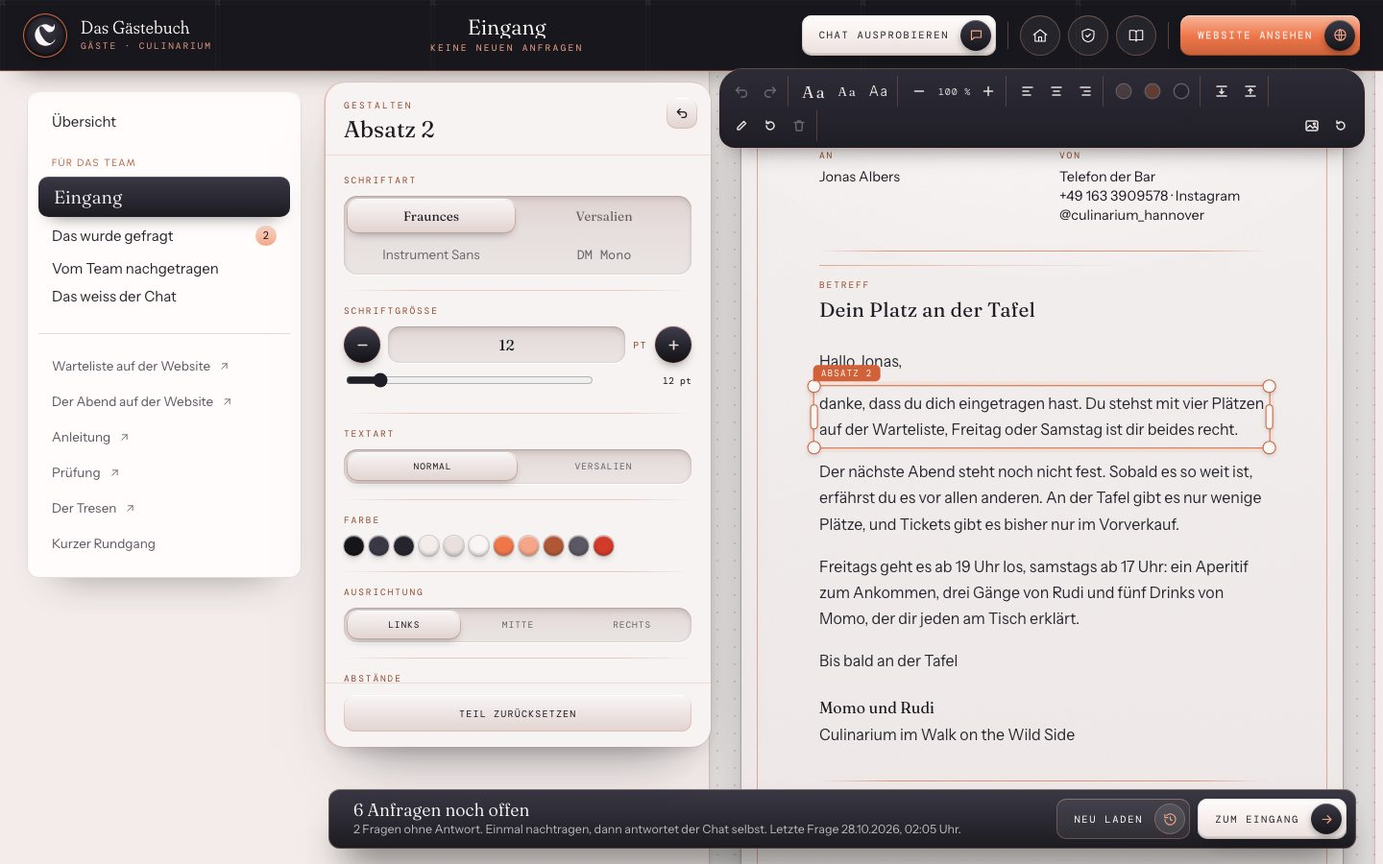
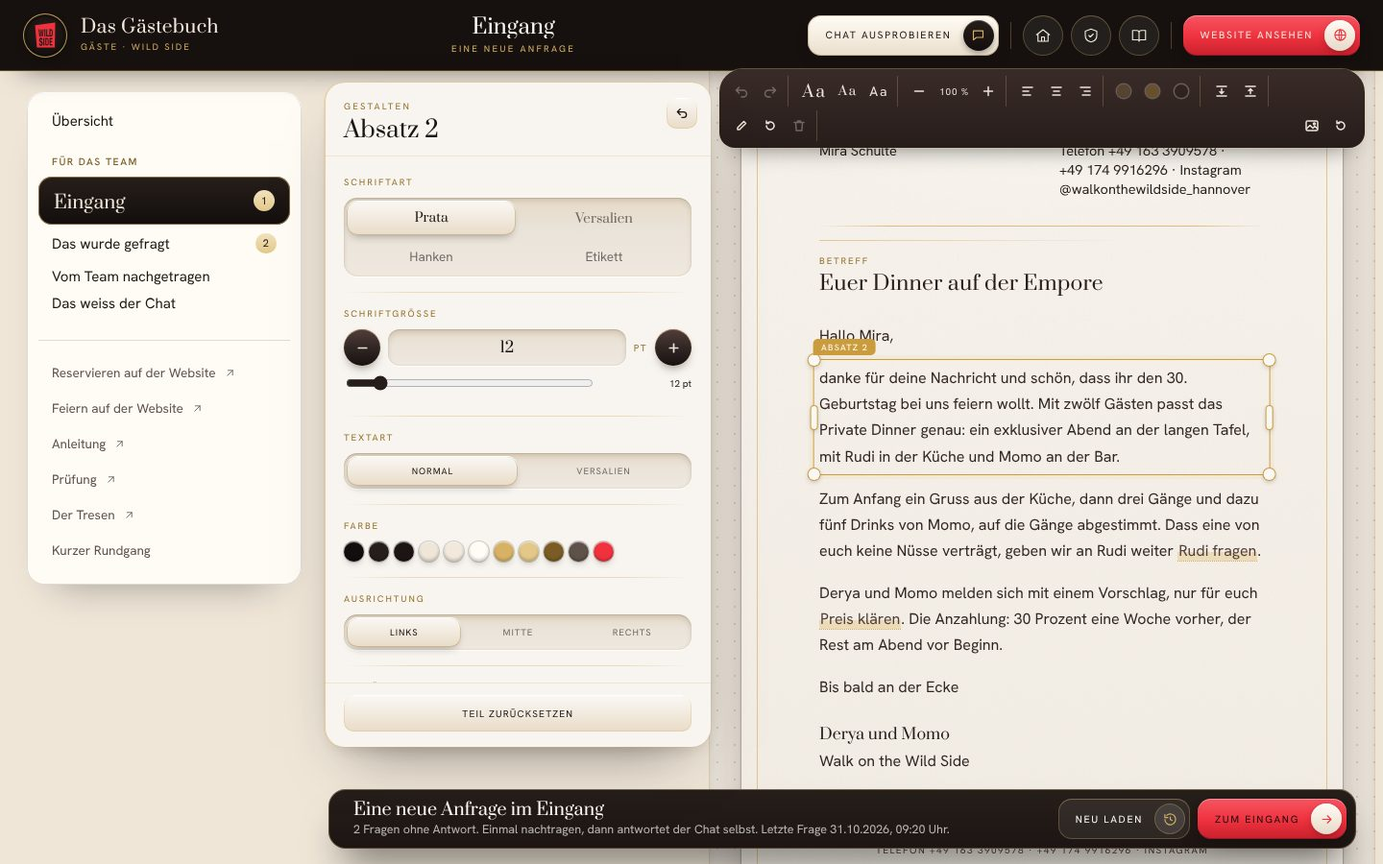
Gästebuch: Anleitung, Baustein für Reservieren und Feiern, Bilder der Anleitung neu, Prüfseite

diff --git a/Walk on the Wild Side Hannover/_werkzeuge/reception/anleitung.html b/Walk on the Wild Side Hannover/_werkzeuge/reception/anleitung.html
@@ -1,12 +1,12 @@
 <!doctype html>
-<html lang="de" data-wo-titel="Anleitung · {name} · Culinarium Hannover">
+<html lang="de" data-wo-titel="Anleitung · {name} · Walk on the Wild Side">
 <head>
 <meta charset="utf-8">
 <meta name="viewport" content="width=device-width, initial-scale=1">
-<title>Anleitung · Culinarium Hannover</title>
-<meta name="description" content="Schritt für Schritt durch das Werkzeug des Teams von Culinarium für die Warteliste, Anfragen und Fragen der Gäste.">
+<title>Anleitung · Walk on the Wild Side</title>
+<meta name="description" content="Schritt für Schritt durch das Werkzeug des Teams von Walk on the Wild Side für Reservierungen, Feiern und Fragen der Gäste.">
 <meta name="robots" content="noindex, nofollow">
-<meta name="theme-color" content="#271d1b">
+<meta name="theme-color" content="#130E0D">
 <link rel="icon" href="/assets/oberflaeche/kleid/wildside-zeichen.svg?v=ca963e407d">
 <link rel="preload" href="../../assets/schrift/prata-latin.woff2" as="font" type="font/woff2" crossorigin>
 <style>
@@ -22,7 +22,7 @@ a{color:inherit}
 .kopf nav{margin-left:auto;display:flex;gap:10px;flex-wrap:wrap}
 .kopf a.kn{display:inline-flex;align-items:center;padding:9px 18px;border-radius:999px;font:500 11px var(--mono);letter-spacing:.16em;text-transform:uppercase;text-decoration:none;color:var(--weiss);box-shadow:inset 0 0 0 1px rgba(232,208,157,.4)}
 .kopf a.gold{background:linear-gradient(180deg,#ead5a8,#cb9c3d);color:var(--nacht);box-shadow:none}
-.hero{position:relative;overflow:hidden;color:var(--weiss);padding:clamp(48px,7vw,96px) clamp(22px,6vw,90px);background:linear-gradient(90deg,rgba(23,18,17,.96),rgba(23,18,17,.7)),url('/assets/bild/tafelleer-1000.webp') center/cover,var(--navy)}
+.hero{position:relative;overflow:hidden;color:var(--weiss);padding:clamp(48px,7vw,96px) clamp(22px,6vw,90px);background:linear-gradient(90deg,rgba(23,18,17,.96),rgba(23,18,17,.7)),url('/assets/bild/theke-960.webp') center/cover,var(--navy)}
 .hero span.m{font:11px var(--mono);letter-spacing:.2em;text-transform:uppercase;color:var(--gold)}
 .hero h1{font:400 clamp(36px,5.6vw,68px)/1.06 var(--serif);margin:14px 0 16px;max-width:15em}
 .hero h1 em{color:var(--gold)}
@@ -61,7 +61,7 @@ h1,h2,h3,h4,figcaption{text-wrap:balance}
 <header class="kopf"><b>Anleitung · <span data-wo-name="gaeste">Werkzeug</span></b><nav><a class="kn" href="#kapitel">Kapitel</a><a class="kn gold" href="./">Werkzeug öffnen</a></nav></header>
 <section class="hero"><span class="m">Anfragen der Gäste, Schritt für Schritt</span>
 <h1>Was Gäste fragen, <em>und deine Antwort.</em></h1>
-<p>Wie ein Platz auf der Warteliste oder die Frage nach einem Abend von der Website in den Eingang kommt, wie du den Brief gestaltest und sendest, was Gäste fragen und wie der Chat lernt, was er bisher nicht wusste. Zwölf kurze Kapitel. Jedes Bild lässt sich mit einem Klick gross ansehen.</p></section>
+<p>Wie eine Reservierung oder die Anfrage für eine Feier von der Website in den Eingang kommt, wie du den Brief gestaltest und sendest, was Gäste fragen und wie der Chat lernt, was er bisher nicht wusste. Zwölf kurze Kapitel. Jedes Bild lässt sich mit einem Klick gross ansehen.</p></section>
 <main id="kapitel">
 <div class="inhalt">
 <a href="#k1"><b>01</b>Übersicht</a><a href="#k2"><b>02</b>Eine Anfrage beantworten</a><a href="#k3"><b>03</b>Den Brief gestalten</a><a href="#k4"><b>04</b>Brief senden und sichern</a>
@@ -70,17 +70,17 @@ h1,h2,h3,h4,figcaption{text-wrap:balance}
 </div>
 
 <section class="k" id="k1"><span class="m">01 · Übersicht</span><h2>So ist <span class="zs"><em>das Gästebuch</em> aufgebaut.</span></h2>
-<p class="s"><span data-wo-name="gaeste">Dieses Werkzeug</span> ist das Werkzeug deines Teams für alles, was Gäste über die Website schreiben: jeder Eintrag auf der Warteliste («Dein Platz an der Tafel.» auf der Seite «Der Abend»: Tag, Plätze, Name, E-Mail), jede Anfrage aus dem Chat (Platz an einem Abend, eigene Feier an der langen Tafel, Nachricht) und jede Frage an den Chat der Website.</p>
-<ol><li>Oben in der Übersicht drei Felder: neue Anfragen im Eingang, Fragen ohne Antwort, alle Fragen bisher. Darunter die Arten (Warteliste, Platz am Abend, Eigene Feier, Nachricht) mit der Zahl der Anfragen, links «Zuletzt angefragt», rechts «Zuletzt gefragt».</li>
+<p class="s"><span data-wo-name="gaeste">Dieses Werkzeug</span> ist das Werkzeug deines Teams für alles, was Gäste über die Website schreiben: jede Reservierung («Ein Platz für euch.» auf der Seite Besuch: Abend, Uhrzeit, Plätze, Name, Telefon oder E-Mail), jede Anfrage für eine Feier («Euer Abend» auf der Seite Feiern: Format, Datum, wie viele, Anlass, Musik), jede Anfrage aus dem Chat (Reservieren, Privates Dinner, Feier, Nachricht) und jede Frage an den Chat der Website.</p>
+<ol><li>Oben in der Übersicht drei Felder: neue Anfragen im Eingang, Fragen ohne Antwort, alle Fragen bisher. Darunter die Arten (Reservieren, Privates Dinner, Feiern, Nachrichten) mit der Zahl der Anfragen, links «Zuletzt angefragt», rechts «Zuletzt gefragt».</li>
 <li>Links die Bereiche: «Eingang», «Das wurde gefragt», «Vom Team nachgetragen» und «Das weiss der Chat». Die Zahl daneben zeigt, was auf dich wartet. Auf dem Handy öffnet «Bereiche» die Liste.</li>
 <li>Die Leiste unten sagt in einem Satz, was offen ist. «Neu laden» holt den Stand, «Zum Eingang» führt zu den Anfragen. Es sieht auch von selbst nach, ob etwas Neues da ist.</li></ol>
 <figure><img src="bilder/rez-uebersicht.jpg?v=c9c5b6e98d" alt="Übersicht" loading="lazy"><figcaption><span data-wo-name="gaeste">Werkzeug</span> · Übersicht</figcaption></figure></section>
 
 <section class="k" id="k2"><span class="m">02 · Eingang</span><h2>Eine Anfrage <em>beantworten.</em></h2>
 <p class="s">Jede Anfrage aus einem Formular der Website landet hier, mit allen Angaben, den Allergien als Klartext und der Seite, von der sie kam. Ebenso eine Anfrage aus dem Chat, sobald der Gast Name und Kontakt nennt. Niemand sagt dem Gast, dass etwas reserviert oder bestätigt ist; das tut dein Team.</p>
-<ol><li>«Eingang» öffnen. Oben Warteliste, Abende, Feiern und Nachrichten mit der Zahl offener Anfragen, darunter die Auswahl «Alle», «Neu», «Offen», «Erledigt». Die Anfragen stehen nach Tagen geordnet (Heute, Gestern, Wochentag, Früher). Neue tragen ein goldenes Feld «Neu».</li>
-<li>Eine Anfrage anklicken. Rechts stehen Name, Tag, Uhrzeit, Plätze, Wünsche für die Küche, Sprache und Kontakt, darunter die Hinweise: der nächste Termin steht noch nicht fest, ein Tag ausser Freitag oder Samstag, mehr Plätze, als die Warteliste nimmt oder die Tafel hat (vierzehn), Allergien (die Website sagt dazu nichts: Rudi fragen), Bar geschlossen (Sonntag bis Mittwoch), Ticket zurückgeben. Unter «Die Nachricht über die Website» liest du nach, was der Gast ausgefüllt hat. Öffnen macht eine neue Anfrage zur gelesenen.</li>
-<li>«Brief schreiben» lässt den Assistenten einen Entwurf schreiben. Er hält sich an das, was Culinarium selbst schreibt (Warteliste: die Sätze auf «Der Abend»; Platz an einem Abend: «Gut zu wissen» und der Vorverkauf; eigene Feier: die Sätze der Bar-Seite), schreibt im Du wie die Website, fragt nach, was fehlt, nennt jede Allergie, setzt für Termin und Preis offene Felder und schreibt in der Sprache des Gastes.</li>
+<ol><li>«Eingang» öffnen. Oben Reservieren, Dinner, Feiern und Nachrichten mit der Zahl offener Anfragen, darunter die Auswahl «Alle», «Neu», «Offen», «Erledigt». Die Anfragen stehen nach Tagen geordnet (Heute, Gestern, Wochentag, Früher). Neue tragen ein goldenes Feld «Neu».</li>
+<li>Eine Anfrage anklicken. Rechts stehen Name, Tag, Uhrzeit, Plätze, Platz, Allergien, Sprache und Kontakt, darunter die Hinweise: Bar geschlossen (Sonntag bis Mittwoch), ab zehn Gästen die lange Tafel statt der Theke, ein Format, das nicht zur Zahl der Gäste passt (Privates Dinner 10 bis 14, lange Tafel 10 bis 20, ganze Bar ab 30), Allergien beim Dinner (die Website sagt dazu nichts: Rudi fragen), die Anzahlung bei Feiern (30 Prozent eine Woche vorher). Unter «Die Nachricht über die Website» liest du nach, was der Gast ausgefüllt hat. Öffnen macht eine neue Anfrage zur gelesenen.</li>
+<li>«Brief schreiben» lässt den Assistenten einen Entwurf schreiben. Er hält sich an das, was die Bar selbst schreibt (Reservieren: «Ein Platz für euch.» und «Gut zu wissen» auf Besuch; Privates Dinner und Feier: die Seite Feiern mit Formaten, Preisen und Ablauf), schreibt im Du wie die Website, fragt nach, was fehlt, nennt jede Allergie, setzt für freie Plätze und das Angebot offene Felder und schreibt in der Sprache des Gastes.</li>
 <li>Ist alles beantwortet, «Erledigt» drücken. Die Anfrage bleibt in der Liste, blasser, und lässt sich mit «Wieder offen» zurückholen.</li></ol>
 <figure><img src="bilder/rez-eingang.jpg?v=0b124ea4e2" alt="Eingang mit Anfrage und Brief" loading="lazy"><figcaption><span data-wo-name="gaeste">Werkzeug</span> · Eingang</figcaption></figure></section>
 
@@ -90,8 +90,8 @@ h1,h2,h3,h4,figcaption{text-wrap:balance}
 <li><b>Schreiben:</b> Doppelklick oder Enter schreibt in den Teil. Klick ausserhalb oder Esc beendet das Schreiben. Stellen in [Klammern] sind offene Felder, die dein Team ausfüllt (Preis, Verfügbarkeit); sie sind gold markiert.</li>
 <li><b>Verschieben:</b> ziehen. Der Teil rastet an Papierkanten, Mitte und anderen Teilen ein (rote Hilfslinien); Alt hält das Einrasten aus. Pfeiltasten verschieben um 1 Pixel, mit Umschalt um 10.</li>
 <li><b>Grösse:</b> die Ecken ziehen (Schrift) oder die Seiten (Breite); oder in der Leiste «+» und «−».</li>
-<li><b>Schrift und Ausrichtung</b> in der Leiste oben: Titelschrift (Fraunces), Versalien, Instrument Sans, links, Mitte, rechts, Linienfarbe. Die Seitenleiste bietet mehr: Schriftart, Schriftgrösse in Punkt, Textart, Hausfarben, Abstände davor und danach, Sperrung, Zeilenabstand, Deckkraft, Lage und «Teil zurücksetzen».</li>
-<li><b>Foto einfügen:</b> in der Leiste das Bild-Symbol. Vierzehn Fotos des Hauses stehen zur Wahl (die lange Tafel, Anstossen bei Kerzen, ein Drink von Momo, am Pass, Lauch / Blumenkohl / Chipotle, das Schild bei Nacht …). Das Foto kommt unter den gewählten Absatz; verschieben, Grösse ziehen, Ausschnitt in der Seitenleiste, mit Entfernen oder Löschen-Taste weg.</li>
+<li><b>Schrift und Ausrichtung</b> in der Leiste oben: Titelschrift (Prata), Versalien, Hanken, links, Mitte, rechts, Linienfarbe. Die Seitenleiste bietet mehr: Schriftart, Schriftgrösse in Punkt, Textart, Hausfarben, Abstände davor und danach, Sperrung, Zeilenabstand, Deckkraft, Lage und «Teil zurücksetzen».</li>
+<li><b>Foto einfügen:</b> in der Leiste das Bild-Symbol. Vierzehn Fotos des Hauses stehen zur Wahl (die lange Tafel, Anstossen, ein Negroni, Momo mixt, das Gewölbe, das Schild an der Ecke …). Das Foto kommt unter den gewählten Absatz; verschieben, Grösse ziehen, Ausschnitt in der Seitenleiste, mit Entfernen oder Löschen-Taste weg.</li>
 <li><b>Linien</b> sind eigene Teile: Stärke, Farbe und Länge ändern, oder entfernen.</li>
 <li><b>Rückgängig:</b> die Pfeile in der Leiste oder ⌘Z, wiederholen mit Umschalt ⌘Z. «Zurück auf die Vorlage» (Symbol rechts in der Leiste) stellt Text, Anordnung und Fotos her, wie der Assistent sie geschrieben hat.</li></ol>
 <figure><img src="bilder/rez-gestalten.jpg?v=67ac4e34af" alt="Brief gestalten mit Seitenleiste" loading="lazy"><figcaption><span data-wo-name="gaeste">Werkzeug</span> · Brief gestalten</figcaption></figure>
@@ -101,7 +101,7 @@ h1,h2,h3,h4,figcaption{text-wrap:balance}
 <section class="k" id="k4"><span class="m">04 · Senden</span><h2>Brief <em>senden und sichern.</em></h2>
 <p class="s">Hier wird nichts verschickt, und es öffnet sich kein Mailprogramm. Der Brief bleibt bei der Anfrage.</p>
 <ol><li><b>Text kopieren</b> legt Betreff und Brief als reinen Text in die Zwischenablage.</li>
-<li><b>Als PDF speichern</b> setzt den Brief als fertige A4-Seite auf Briefpapier und lädt die Datei direkt («Culinarium – Name – Datum.pdf»). Passt der Text, ist es eine Seite; sonst bricht er sauber um, mit kleinem Briefkopf auf der Folgeseite, Fusszeile und Rahmen auf jeder Seite. Geht auch aus «Nur Text».</li>
+<li><b>Als PDF speichern</b> setzt den Brief als fertige A4-Seite auf Briefpapier und lädt die Datei direkt («Walk on the Wild Side – Name – Datum.pdf»). Passt der Text, ist es eine Seite; sonst bricht er sauber um, mit kleinem Briefkopf auf der Folgeseite, Fusszeile und Rahmen auf jeder Seite. Geht auch aus «Nur Text».</li>
 <li>Rechts neben dem Brief steht die Notiz «Vor dem Senden»: wie viele Stellen offen sind, woher die Angaben stammen und was das Team vorher klären muss.</li></ol></section>
 
 <section class="k" id="k5"><span class="m">05 · Sprache</span><h2>Auf Deutsch <em>lesen.</em></h2>
@@ -112,13 +112,13 @@ h1,h2,h3,h4,figcaption{text-wrap:balance}
 <figure><img src="bilder/rez-deutsch.jpg?v=19d6599e16" alt="Deutsche Lesefassung eines französischen Briefs" loading="lazy"><figcaption><span data-wo-name="gaeste">Werkzeug</span> · Auf Deutsch lesen</figcaption></figure></section>
 
 <section class="k" id="k6"><span class="m">06 · Brief lenken, Anfragen löschen</span><h2>Den Brief <em>lenken und löschen.</em></h2>
-<p class="s">Weisst du mehr als die Website, zum Beispiel den Termin des nächsten Abends, gib es dem Assistenten mit.</p>
+<p class="s">Weisst du mehr als die Website, zum Beispiel, ob an einem Abend noch Plätze frei sind, gib es dem Assistenten mit.</p>
 <ol><li>Unter dem Brief «Neu schreiben lassen» drücken, im Fenster den Hinweis in einem Satz eintragen und «Neu schreiben» drücken. Der neue Brief ersetzt den alten; willst du deine Fassung behalten, kopier sie vorher mit «Brief kopieren».</li>
 <li>Preise und Leistungen nennt der Assistent nur, wenn sie auf der Website stehen.</li>
 <li><b>Löschen:</b> Anfragen enthalten Namen und Kontakte und bleiben zwölf Monate gespeichert. Möchte ein Gast, dass seine Angaben gelöscht werden, die Anfrage öffnen, oben rechts das runde Zeichen mit dem Papierkorb drücken und «Endgültig löschen» bestätigen.</li></ol></section>
 
 <section class="k" id="k7"><span class="m">07 · Das wurde gefragt</span><h2>Was Gäste <em>wissen wollen.</em></h2>
-<p class="s">Jede Frage an den Chat steht hier, nach Themen: Allergien &amp; Unverträglichkeiten, Termine &amp; Warteliste, Tickets &amp; Preise, Eigene Feier &amp; Gruppen, Drinks &amp; Menü, Dirty Chicken, Die Bar, Anfahrt, Team.</p>
+<p class="s">Jede Frage an den Chat steht hier, nach Themen: Feiern &amp; Dinner, Essen &amp; Allergien, DJ-Abende &amp; Konzerte, Drinks &amp; Preise, Zeiten &amp; Reservieren, Anfahrt, Das Haus &amp; Team.</p>
 <ol><li>«Das wurde gefragt» öffnen. Oben die Zahlen: alle Fragen, ohne Antwort, vom Team nachgetragen, zur Anfrage geworden.</li>
 <li>Eine Frage aufklappen: «Antwort des Chats» zeigt, was der Chat geantwortet hat.</li>
 <li>Fragen ohne Antwort sind golden hinterlegt; «Ohne Antwort» oben zeigt nur diese. Ohne Antwort heisst: dazu steht nichts auf der Website. Der Chat hat den Gast an das Team verwiesen, statt zu raten.</li></ol>
@@ -137,8 +137,8 @@ h1,h2,h3,h4,figcaption{text-wrap:balance}
 <figure><img src="bilder/rez-nachgetragen.jpg?v=79eb6dafb2" alt="Vom Team nachgetragen" loading="lazy"><figcaption><span data-wo-name="gaeste">Werkzeug</span> · Vom Team nachgetragen</figcaption></figure></section>
 
 <section class="k" id="k10"><span class="m">10 · Das weiss der Chat</span><h2>Alles, was der Chat <em>über dein Haus weiss.</em></h2>
-<p class="s">Der Chat antwortet nur mit dem, was auf der Website, in den Wegen zum Ticket (Vorverkauf laut Instagram) und hier steht. Dieser Bereich zeigt es in Bereichen geordnet, so dass du auf einen Blick siehst, was Sache ist.</p>
-<ol><li>Links die Bereiche (Culinarium, Der Abend &amp; Warteliste, Tickets &amp; Preise, Drinks &amp; Küche, Kontakt, Das Haus (Bar), Team, Der Weg, Dirty Chicken …), rechts die Angaben als Zeilen mit «So steht es auf der Website» als Beleg.</li>
+<p class="s">Der Chat antwortet nur mit dem, was auf der Website, in den Wegen zum Team (Telefon, Instagram) und hier steht. Dieser Bereich zeigt es in Bereichen geordnet, so dass du auf einen Blick siehst, was Sache ist.</p>
+<ol><li>Links die Bereiche (Die Bar, Zeiten &amp; Reservieren, Drinks &amp; Preise, Programm, Feiern, Das Haus &amp; Team, Der Weg, Kontakt, Im selben Haus …), rechts die Angaben als Zeilen mit «So steht es auf der Website» als Beleg.</li>
 <li><b>Suchen:</b> das Feld oben sucht in allen Bereichen. Steht zu einem Stichwort noch nichts im Wissen, bietet das Werkzeug zwei Wege an: selbst eintragen, oder bei der zuständigen Abteilung als offen vermerken. Das Thema steht dann oben unter «Offen bei deinem Team» mit Abteilung und Namen; wer die Antwort weiss, trägt sie dort mit «Antwort eintragen» ein. Es öffnet sich kein Mailprogramm.</li>
 <li><b>Eine Angabe ändern:</b> die Zeile antippen, Text ändern, «Übernehmen». Der Chat antwortet ab der nächsten Frage damit; die Website bleibt, wie sie ist. «Nicht mehr nennen» schaltet eine Angabe ab, «Wie auf der Website» stellt sie zurück.</li>
 <li><b>Chat prüfen:</b> rechts oben «Frag, wie ein Gast». Die Antwort kommt aus dem Wissen, so wie es jetzt steht. Diese Frage landet nicht im Protokoll.</li>
@@ -149,9 +149,9 @@ h1,h2,h3,h4,figcaption{text-wrap:balance}
 <p class="s">Ein Feld für alles, was der Chat bisher nicht wusste: eigener Text, ein Link, ein Dokument, ein Foto.</p>
 <ol><li><b>Text:</b> schreiben, einen Bereich wählen oder «automatisch» lassen, «Übernehmen». Ein Text mit gewähltem Bereich steht sofort im Wissen.</li>
 <li><b>Link:</b> die Adresse einer Veranstaltung oder eines Anbieters einfügen. Die Seite wird im Hintergrund gelesen (meist eine halbe Minute), der Chat übernimmt nur, was dort steht, mit Datum und Quelle. «Neu einlesen» holt den neuen Stand, «Entfernen» nimmt die Angaben wieder weg.</li>
-<li><b>Dokument oder Foto:</b> PDF, Word, Text und Fotos bis 20 MB, per Knopf oder hineinziehen. Etwa das Plakat des nächsten Abends oder die Karte am Platz als Foto.</li>
+<li><b>Dokument oder Foto:</b> PDF, Word, Text und Fotos bis 20 MB, per Knopf oder hineinziehen. Etwa das Plakat des nächsten DJ-Abends oder die neue Karte als Foto.</li>
 <li><b>Angabe hinzufügen:</b> Bereich, Titel, Text und «Gilt bis», etwa für eine Veranstaltung. Abgelaufene Angaben nennt der Chat nicht mehr, sie bleiben sichtbar.</li>
-<li>Eine eigene Anmeldung brauchst du nicht: Jede Änderung steht mit Datum im Verlauf, eingetragen als «Team Culinarium».</li></ol></section>
+<li>Eine eigene Anmeldung brauchst du nicht: Jede Änderung steht mit Datum im Verlauf, eingetragen als «Team Wild Side».</li></ol></section>
 
 <section class="k" id="k12"><span class="m">12 · Chat ausprobieren</span><h2>So fragt <em>ein Gast.</em></h2>
 <p class="s">Hier siehst du, wie der Chat einem Gast antwortet.</p>

diff --git a/Walk on the Wild Side Hannover/_werkzeuge/reception/baustein/anfrage.js b/Walk on the Wild Side Hannover/_werkzeuge/reception/baustein/anfrage.js
@@ -1,34 +1,41 @@
-/* Anschluss der Warteliste der Website an La Réception · Culinarium Hannover (28.10.2026, Master Werkzeug-Bau E12/E24/E33, Muster: Gastgeber der Taverne zum Schäfli).
-   Die Website hat ein Formular, das etwas an das Team geben soll: die Warteliste «Dein Platz an der Tafel.» auf Der Abend (form.wt-form in abend.html: Tag Freitag,
-   Samstag oder egal, Plätze 1 bis 6, Name, E-Mail). Bisher zeigte sie nur den Abriss «Vorgemerkt» (Vorschau, nichts ging weg). Das Feld «Vormerken» im Fuss
-   jeder Seite schickt nichts ab, es trägt nur die E-Mail in die Warteliste auf Der Abend ein (culinarium.js); hier bleibt es unberührt.
-   Mit diesem Baustein geht jeder Eintrag in den Eingang von La Réception, mit Tag und Plätzen; erst wenn La Réception ihn angenommen hat, löst sich der Abriss
-   wie bisher (das Skript der Website setzt «Danke, … Du stehst auf der Liste»). Geht etwas schief, steht unter dem Ticket eine Meldung mit der Telefonnummer
-   der Bar und Instagram, die Eingaben bleiben. Nie mailto, nie ein Mailprogramm.
-   Die Skripte der Website (culinarium.js) bleiben unverändert. Der Baustein fängt das Abschicken im Fang-Durchlauf am Dokument ab, bevor die Website den Abriss
-   löst, schickt an La Réception und gibt das Abschicken danach an die Website weiter.
-   Die gespielte Buchung «Platz buchen» (buchen.js, Zahlung nur simuliert) ist kein Formular des Hauses und bleibt hier draussen.
-   Einbinden (Website-Chat über bau.py, nicht von Hand): <script src="assets/anfrage.js?v={V}" defer></script> nach culinarium.js.
+/* Anschluss der Formulare der Website an das Gästebuch · Walk on the Wild Side Hannover (31.10.2026, Master Werkzeug-Bau E12/E24/E33, Muster: Culinarium Hannover).
+   Die Website hat zwei Formulare, die etwas an das Team geben sollen, beide bisher nur als Vorführung (form[data-vorfuehrung], wild.js zeigt den Dank, nichts geht weg):
+     besuch.html  «Ein Platz für euch.» (form.rh-form: Abend, Uhrzeit, Plätze, Name, Telefon oder E-Mail, Platz an der Theke)   → Art «reservieren»
+     tafel.html   «Euer Abend» (Format, Datum, wie viele, Anlass, Musik dazu, Name, E-Mail oder Telefon, Was habt ihr vor?)      → Art «dinner» (Privates Dinner) oder «feier»
+   Mit diesem Baustein geht jede Anfrage in den Eingang des Gästebuchs; erst wenn das Gästebuch sie angenommen hat, zeigt die Website ihren Dank wie bisher
+   («Danke. Die Bar bestätigt dir den Abend.» bzw. «Danke. Derya und Momo melden sich …»). Fehlt Name oder Kontakt oder geht etwas schief, steht unter dem Knopf
+   eine Meldung mit den Telefonnummern der Bar und Instagram, die Eingaben bleiben. Nie mailto, nie ein Mailprogramm (die Bar hat keine belegte Mail-Adresse).
+   Die Skripte der Website (wild.js) bleiben unverändert. Der Baustein fängt das Abschicken im Fang-Durchlauf am Dokument ab, bevor die Website den Dank zeigt,
+   schickt an das Gästebuch und gibt das Abschicken danach an die Website weiter.
+   Einbinden (Website-Chat über bau.py, nicht von Hand): <script src="assets/anfrage.js?v={V}" defer></script> nach wild.js.
    Ziel: /_werkzeuge/reception/api/formular (anders mit <script … data-api="http://127.0.0.1:9084/_werkzeuge/reception/api/formular"> oder window.WS_ANFRAGE_API). */
 (function () {
   'use strict';
   var D = document, skript = D.currentScript;
   var API = window.WS_ANFRAGE_API || (skript && skript.getAttribute('data-api')) || '/_werkzeuge/reception/api/formular';
-  var WEGE = 'Telefon der Bar +49 163 3909578 oder eine Nachricht an @culinarium_hannover auf Instagram';
-  var TAG = { fr: ['Freitag', 'ab 19:00'], sa: ['Samstag', 'ab 17:00'], egal: ['Freitag oder Samstag', 'beides geht'] };
+  var WEGE = 'Telefon +49 163 3909578 oder +49 174 9916296, oder eine Nachricht an @walkonthewildside_hannover auf Instagram';
   var wert = function (f, n) { var e = f.querySelector('[name="' + n + '"]'); return e ? String(e.value || '').trim() : ''; };
-  var seiteName = function () { var t = (D.title || '').split(/ · | \| | — /)[0].trim(); return /^Culinarium/.test(t) ? 'Startseite' : t; };
+  var seiteName = function () { var t = (D.title || '').split(/ · | \| | — /)[0].trim(); return /^Walk on the Wild Side/.test(t) ? 'Startseite' : t; };
+  var datumLang = function (iso) { var m = /^(\d{4})-(\d{2})-(\d{2})$/.exec(iso || ''); if (!m) return iso || ''; var d = new Date(+m[1], +m[2] - 1, +m[3]);
+    return d.toLocaleDateString('de-DE', { weekday: 'long', day: 'numeric', month: 'long', year: 'numeric' }).replace(/^(\w+) /, '$1, '); };
 
-  /* Was die Warteliste mitschickt: dieselben Angaben, die der Gast auf dem Ticket sieht, in Zeilen für das Team */
-  function warteliste(f) {
-    var r = f.querySelector('[name=tag]:checked'), tag = TAG[(r && r.value) || 'fr'] || TAG.fr;
-    var o = f.querySelector('output[data-feld=n]'), n = o ? String(o.value || o.textContent || '').trim() : '';
-    return { art: 'warteliste', formular: 'warteliste', anliegen: 'Warteliste: ' + tag[0] + (n ? ', ' + n + (n === '1' ? ' Platz' : ' Plätze') : ''),
-      datum: tag[0], uhrzeit: tag[1] === 'beides geht' ? '' : tag[1], personen: n, name: wert(f, 'name'), kontakt: wert(f, 'mail'),
-      zeilen: ['Tag: ' + tag[0] + ', ' + tag[1], 'Plätze: ' + (n || '-')] };
+  /* Was jedes Formular mitschickt: dieselben Angaben, die der Gast im Formular sieht, in Zeilen für das Team */
+  function reservieren(f) {
+    var tag = datumLang(wert(f, 'datum')), zeit = wert(f, 'zeit'), n = wert(f, 'gaeste');
+    return { art: 'reservieren', formular: 'reservieren', anker: '#reservieren', platz: wert(f, 'platz') || 'Theke',
+      anliegen: 'Platz reservieren: ' + [tag, zeit, n ? n + (n === '1' ? ' Platz' : ' Plätze') : ''].filter(Boolean).join(', '),
+      datum: tag, uhrzeit: zeit, personen: n, name: wert(f, 'name'), kontakt: wert(f, 'kontakt'),
+      zeilen: ['Abend: ' + (tag || '-'), 'Uhrzeit: ' + (zeit || '-'), 'Plätze: ' + (n || '-')] };
   }
+  function feiern(f) {
+    var format = wert(f, 'format'), tag = datumLang(wert(f, 'datum')), n = wert(f, 'gaeste'), anlass = wert(f, 'anlass'), musik = wert(f, 'musik'), text = wert(f, 'text');
+    return { art: format === 'Privates Dinner' ? 'dinner' : 'feier', formular: 'feiern', anker: '#anfragen',
+      anliegen: [format, anlass, n ? n + ' Gäste' : ''].filter(Boolean).join(', '), datum: tag, uhrzeit: '', personen: n, name: wert(f, 'name'), kontakt: wert(f, 'kontakt'),
+      zeilen: ['Format: ' + (format || '-'), 'Datum: ' + (tag || '-'), 'Wie viele: ' + (n || '-'), 'Anlass: ' + (anlass || '-'), 'Musik dazu: ' + (musik || '-')].concat(text ? ['Was habt ihr vor?: ' + text] : []) };
+  }
+  var welches = function (f) { return f.classList.contains('rh-form') ? reservieren : f.querySelector('[name=format]') ? feiern : null; };
 
-  /* Feld, das Menschen nicht sehen: nur Maschinen füllen es aus (La Réception nimmt solche Anfragen still an und legt nichts ab) */
+  /* Feld, das Menschen nicht sehen: nur Maschinen füllen es aus (das Gästebuch nimmt solche Anfragen still an und legt nichts ab) */
   function falle(f) {
     if (f.querySelector('[name=website]')) return;
     var i = D.createElement('input'); i.type = 'text'; i.name = 'website'; i.tabIndex = -1; i.autocomplete = 'off'; i.setAttribute('aria-hidden', 'true');
@@ -36,40 +43,38 @@
     f.appendChild(i);
   }
   function meldung(f, text) {
-    var p = f.querySelector('.wt-meldung');
-    if (!p) return;
+    var p = f.querySelector('.hinweis');
     f.classList.remove('fertig');
-    p.textContent = text;
+    if (p) p.textContent = text;
   }
   function senden(f, d, knopf, fertig) {
     if (f.dataset.sendet) return;
     f.dataset.sendet = '1'; if (knopf) knopf.disabled = true;
-    var koerper = { art: d.art, formular: d.formular, name: d.name, kontakt: d.kontakt, datum: d.datum || '', uhrzeit: d.uhrzeit || '', personen: d.personen || '',
-      allergene: [], anliegen: d.anliegen, nachricht: d.zeilen.join('\n'), seite: location.pathname + location.search + '#warteliste',
+    var koerper = { art: d.art, formular: d.formular, name: d.name, kontakt: d.kontakt, datum: d.datum || '', uhrzeit: d.uhrzeit || '', personen: d.personen || '', platz: d.platz || '',
+      allergene: [], anliegen: d.anliegen, nachricht: d.zeilen.join('\n'), seite: location.pathname + location.search + d.anker,
       seite_name: seiteName(), sprache: (D.documentElement.lang || 'de').slice(0, 2), website: wert(f, 'website') };
     fetch(API, { method: 'POST', headers: { 'Content-Type': 'application/json' }, body: JSON.stringify(koerper) })
       .then(function (r) { return r.json().catch(function () { return {}; }).then(function (j) { return { ok: r.ok, j: j }; }); })
       .then(function (x) {
-        if (!x.ok) throw new Error(String((x.j && x.j.fehler) || '').replace(/^[A-ZÄÖÜ-]+ · /, '') || 'Dein Eintrag kam nicht an.');
+        if (!x.ok) throw new Error(String((x.j && x.j.fehler) || '').replace(/^[A-ZÄÖÜ-]+ · /, '') || 'Deine Anfrage kam nicht an.');
         fertig();
       })
-      .catch(function (e) { meldung(f, (e && e.message && !/fetch|network|load/i.test(e.message) ? e.message : 'Dein Eintrag kam nicht an.') + ' Versuch es gleich noch einmal, oder melde dich direkt: ' + WEGE + '.'); })
+      .catch(function (e) { meldung(f, (e && e.message && !/fetch|network|load/i.test(e.message) ? e.message : 'Deine Anfrage kam nicht an.') + ' Versuch es gleich noch einmal, oder melde dich direkt: ' + WEGE + '.'); })
       .then(function () { delete f.dataset.sendet; if (knopf) knopf.disabled = false; });
   }
 
   D.addEventListener('submit', function (e) {
-    var f = e.target;
-    if (!f || !f.classList || !f.classList.contains('wt-form')) return;
-    if (f.dataset.durch) { delete f.dataset.durch; return; }   // angenommen: jetzt löst die Website den Abriss wie bisher
+    var f = e.target, bau = f && f.matches && f.matches('form[data-vorfuehrung]') && welches(f);
+    if (!bau) return;
+    if (f.dataset.durch) { delete f.dataset.durch; return; }   // angenommen: jetzt zeigt die Website ihren Dank wie bisher
     e.preventDefault(); e.stopImmediatePropagation();
-    var name = f.querySelector('[name=name]'), mail = f.querySelector('[name=mail]');
-    var fehlt = [name, mail].filter(function (x) { return x && (!x.value.trim() || !x.checkValidity()); });
-    if (fehlt.length) { f.dataset.durch = '1'; f.dispatchEvent(new Event('submit', { cancelable: true })); return; }   // die Website sagt selbst, was fehlt
-    senden(f, warteliste(f), f.querySelector('[type=submit]'), function () {
+    var d = bau(f);
+    if (!d.name || !d.kontakt) { meldung(f, 'Bitte Name und ' + (d.formular === 'feiern' ? 'E-Mail oder Telefon' : 'Telefon oder E-Mail') + ' angeben, damit die Bar antworten kann.'); return; }
+    senden(f, d, f.querySelector('[type=submit]'), function () {
       f.dataset.durch = '1'; f.dispatchEvent(new Event('submit', { cancelable: true }));
-      var s = f.querySelector('.wt-meldung small'); if (s) s.textContent = 'Dein Eintrag liegt beim Team.';   // statt «Diese Vorschau verschickt noch nichts.»
+      var s = f.querySelector('.hinweis'); if (s) s.textContent = 'Deine Anfrage liegt beim Team.';   // statt «Vorführung: In diesem Entwurf wird nichts verschickt.»
     });
   }, true);
-  function bereit() { [].forEach.call(D.querySelectorAll('form.wt-form'), falle); }
+  function bereit() { [].forEach.call(D.querySelectorAll('form[data-vorfuehrung]'), function (f) { if (welches(f)) falle(f); }); }
   if (D.readyState === 'loading') D.addEventListener('DOMContentLoaded', bereit); else bereit();
 })();

diff --git a/Walk on the Wild Side Hannover/_werkzeuge/reception/_bau/anleitung_bilder.js b/Walk on the Wild Side Hannover/_werkzeuge/reception/_bau/anleitung_bilder.js
@@ -1,0 +1,27 @@
+// Bildschirmfotos für die Anleitung (bilder/rez-*.jpg) · Walk on the Wild Side Hannover (Kopie aus dem Culinarium, pruefung/anleitung_bilder.js).
+// Aufruf: node _bau/anleitung_bilder.js http://127.0.0.1:9194/_werkzeuge/reception/   (Server mit frischen Wegwerf-Daten: RECEPTION_DATEN=<leerer Ordner>, nichts Echtes im Bild)
+const path = require('path'), fs = require('fs');
+const { chromium } = require('playwright');
+const B = process.argv[2] || 'http://127.0.0.1:9194/_werkzeuge/reception/';
+const OUT = path.join(__dirname, '..', 'bilder'); fs.mkdirSync(OUT, { recursive: true });
+const sleep = ms => new Promise(r => setTimeout(r, ms));
+(async () => {
+  const br = await chromium.launch();
+  const ctx = await br.newContext({ viewport: { width: 1440, height: 900 }, locale: 'de-DE', deviceScaleFactor: 1 });
+  await ctx.route(/^(mailto|tel|sms):/, r => r.abort());
+  await ctx.addInitScript(() => { try { localStorage.setItem('reception-name', 'Team Wild Side'); localStorage.setItem('rundgang-reception', '1'); localStorage.setItem('rundgang-savoir', '1'); } catch (e) { /* */ } });
+  const p = await ctx.newPage(); p.setDefaultTimeout(15000);
+  const foto = async n => { await sleep(900); await p.screenshot({ path: path.join(OUT, `rez-${n}.jpg`), type: 'jpeg', quality: 82 }); console.log('Bild', n); };
+  const gehe = async a => { await p.goto('about:blank'); await p.goto(B + '#' + a, { waitUntil: 'load' }); await sleep(3200); };
+  await gehe('start'); await foto('uebersicht');
+  await gehe('eingang'); await p.locator('.re-liste .re-a', { hasText: 'Mira Schulte' }).click(); await sleep(900); await foto('eingang');
+  await p.locator('#brief .gs--p').nth(1).scrollIntoViewIfNeeded(); await p.locator('#brief .gs--p').nth(1).click(); await sleep(500); await foto('gestalten');
+  await p.click('[data-w="foto"]'); await sleep(900); await foto('foto'); await p.keyboard.press('Escape'); await sleep(300);
+  await gehe('eingang'); await p.locator('.re-liste .re-a', { hasText: 'Emma Clarke' }).click(); await sleep(900); await p.click('#detail [data-akt="deutsch"]'); await p.waitForSelector('.re-de__text'); await sleep(600); await p.locator('.re-de').scrollIntoViewIfNeeded(); await foto('deutsch');
+  await gehe('gefragt'); await foto('gefragt');
+  await p.click('.filter [data-wahl="luecke"]'); await sleep(600); await p.locator('.re-f [data-akt="nachtragen"]').first().click(); await p.waitForSelector('#f-antwort'); await foto('nachtragen'); await p.keyboard.press('Escape');
+  await gehe('nachgetragen'); await foto('nachgetragen');
+  await gehe('wissen'); await foto('wissen');
+  await p.click('#k-probe'); await p.waitForSelector('.ws-handy'); await sleep(1200); await p.click('.probe__fragen [data-frage]'); await p.waitForFunction(() => document.querySelectorAll('#probe-l .ws-bl--haus').length >= 2 && !document.querySelector('.ws-bl--wartet'), null, { timeout: 20000 }); await foto('probe');
+  await br.close();
+})().catch(e => { console.log('ABBRUCH', e.message); process.exit(1); });

diff --git a/Walk on the Wild Side Hannover/_werkzeuge/reception/reception.js b/Walk on the Wild Side Hannover/_werkzeuge/reception/reception.js
@@ -788,7 +788,7 @@ function detail(a) {
   /* Robert 20.10.2026: «super unübersichtlich … nicht richtig formatiert»: drei ruhige Gruppen statt einer Wand aus Feldern (Wann und wie viele · Gast · Woher) */
   const datumKurz = String(a.datum || '').replace(/,?\s*\d{1,2}:\d{2}\s*Uhr$/, '');
   const angaben = { wann: [['Tag', esc(datumKurz || 'nicht genannt')], ['Zeit', esc(a.uhrzeit || ((String(a.datum || '').match(/\d{1,2}:\d{2}/) || [''])[0] ? (String(a.datum).match(/\d{1,2}:\d{2}/)[0] + ' Uhr') : 'nicht genannt'))], ['Plätze', esc(a.personen || 'nicht genannt')]].concat(a.platz ? [['Platz', esc(a.platz)]] : []),   // Schäfli: Platz nur, wenn der Gast ihn gewählt hat (Festsaal)
-    gast: (a.beispiel ? [] : [['Kontakt', kontaktLink(a.kontakt)]]).concat([['Sprache', esc(SPRACHE[a.sprache] || a.sprache)], ['Für die Küche', (a.allergene_lang || []).length ? esc(a.allergene_lang.join(', ')) : 'keine angegeben']]),
+    gast: (a.beispiel ? [] : [['Kontakt', kontaktLink(a.kontakt)]]).concat([['Sprache', esc(SPRACHE[a.sprache] || a.sprache)], ['Allergien', (a.allergene_lang || []).length ? esc(a.allergene_lang.join(', ')) : 'keine angegeben']]),
     woher: (a.web ? esc(FORMULAR[a.formular] || 'Formular') + ' · Website' + (a.seite_name ? ', Seite ' + esc(a.seite_name) : '') : 'Chat der Website') + ' · bei ' + esc(abt(a)) };
   /* Was der Gast selbst geschrieben hat (Wünsche), statt des Sammeltitels als Zitat; Formular-Felder als saubere Liste statt als Rohtext */
   const felder = a.web ? String(a.nachricht || '').split('\n').map(z => z.match(/^([^:]{2,40}):\s*(.*)$/)).filter(Boolean).map(m => [m[1].trim(), m[2].trim()]) : [];

diff --git a/Walk on the Wild Side Hannover/_werkzeuge/reception/baustein/ANLEITUNG.md b/Walk on the Wild Side Hannover/_werkzeuge/reception/baustein/ANLEITUNG.md
@@ -3,25 +3,26 @@ tags: [projekt, website]
 status: aktiv
 ---
 
-# Baustein: Warteliste der Website → Eingang von La Réception · Culinarium Hannover
+# Baustein: Formulare der Website → Eingang des Gästebuchs · Walk on the Wild Side Hannover
 
-Gebaut am 28.10.2026 vom Chat `wildside-reception` (Werkzeug Gäste-Chat-Team), Muster: Baustein des Gastgebers der Taverne zum Schäfli. Auf der Website ist **nichts** eingebaut; das macht der Website-Chat (Revier `website/`), sobald der Oberchef es freigibt.
+Gebaut am 31.10.2026 im Nachtbau (Revier `_werkzeuge/reception/`), Kopie des Bausteins aus dem Culinarium, umgestellt auf die beiden Formulare der Bar. Auf der Website ist **nichts** eingebaut; das macht der Website-Chat (Revier `website/`), sobald der Oberchef es freigibt.
 
 ## Was er tut
 
-- Die Website hat ein Formular für das Team: die Warteliste «Dein Platz an der Tafel.» auf `abend.html` (`form.wt-form`: Tag Freitag/Samstag/egal, Plätze 1 bis 6, Name, E-Mail). Heute löst sich nur der Abriss «Vorgemerkt», nichts geht weg («Diese Vorschau verschickt noch nichts.»).
-- Mit dem Baustein geht jeder Eintrag in den Eingang von La Réception (Art «Warteliste», Abteilung «Warteliste», Tag, Plätze, Name, E-Mail, Seite). Erst wenn La Réception ihn angenommen hat, löst sich der Abriss wie bisher; der kleine Satz darunter heisst dann «Dein Eintrag liegt beim Team.».
-- Kommt der Eintrag nicht an: Meldung unter dem Ticket mit Telefon der Bar und Instagram, die Eingaben bleiben. Nie `mailto:`, nie ein Mailprogramm.
-- `culinarium.js` der Website bleibt unverändert: der Baustein fängt das Abschicken im Fang-Durchlauf am Dokument ab und gibt es nach der Annahme an die Website weiter.
-- Unberührt: «Vormerken» im Fuss (schickt nichts, trägt nur die E-Mail auf Der Abend ein) und «Platz buchen» (gespielte Zahlung, `buchen.js`).
+- Die Website hat zwei Formulare für das Team, beide heute nur als Vorführung (`form[data-vorfuehrung]`, `wild.js` zeigt den Dank, nichts geht weg):
+  - `besuch.html` «Ein Platz für euch.» (`form.rh-form`: Abend, Uhrzeit, Plätze, Name, Telefon oder E-Mail, Platz an der Theke) → Art «Reservieren», Abteilung «Reservieren».
+  - `tafel.html` «Euer Abend» (Format, Datum, wie viele, Anlass, Musik dazu, Name, E-Mail oder Telefon, Was habt ihr vor?) → Art «Privates Dinner» (Format Privates Dinner) oder «Feier» (lange Tafel, ganze Bar, grosses Event).
+- Mit dem Baustein geht jede Anfrage in den Eingang des Gästebuchs (Art, Abteilung, Angaben als Zeilen, Name, Kontakt, Seite). Erst wenn das Gästebuch sie angenommen hat, zeigt die Website ihren Dank wie bisher; der kleine Satz unter dem Knopf heisst dann «Deine Anfrage liegt beim Team.».
+- Fehlt Name oder Kontakt, oder kommt die Anfrage nicht an: Meldung unter dem Knopf mit den Telefonnummern der Bar und Instagram, die Eingaben bleiben. Nie `mailto:`, nie ein Mailprogramm (die Bar hat keine belegte Mail-Adresse).
+- `wild.js` der Website bleibt unverändert: der Baustein fängt das Abschicken im Fang-Durchlauf am Dokument ab und gibt es nach der Annahme an die Website weiter.
 
 ## Einbauen (Website-Chat, über `bau.py`)
 
 1. `_werkzeuge/reception/baustein/anfrage.js` nach `website/assets/anfrage.js` kopieren.
-2. In `bau.py` auf `abend.html` **nach** `culinarium.js` einhängen: `<script src="assets/anfrage.js?v={VERSION}" defer></script>`.
-3. Ziel der Anfragen: auf dem Server von La Réception (:9084) gilt der Standard `/_werkzeuge/reception/api/formular`. Läuft die Website auf :8765, braucht es `data-api` mit voller Adresse **und** eine Weiterleitung, weil La Réception nur Aufrufe von der eigenen Seite annimmt (Herkunft 403). Vorschlag wie im Schäfli: der Website-Server reicht `POST /_werkzeuge/reception/api/formular` an `http://127.0.0.1:9084` weiter.
-4. Datenschutz: der Satz zur Warteliste auf `datenschutz.html` («wird erst gespeichert, wenn der Ticketweg steht») muss dann sagen, wo der Eintrag liegt (La Réception, zwölf Monate, Löschung auf Wunsch). Vorschlag: «Was du in die Warteliste einträgst (Name, E-Mail, Tag, Plätze), liegt beim Team von Culinarium und wird nach zwölf Monaten gelöscht, auf Wunsch sofort.» Vom Haus zu prüfen.
+2. In `bau.py` auf `besuch.html` und `tafel.html` **nach** `wild.js` einhängen: `<script src="assets/anfrage.js?v={VERSION}" defer></script>`.
+3. Ziel der Anfragen: auf dem Server des Gästebuchs (:9084) gilt der Standard `/_werkzeuge/reception/api/formular`. Läuft die Website auf einem anderen Server, braucht es `data-api` mit voller Adresse **und** eine Weiterleitung, weil das Gästebuch nur Aufrufe von der eigenen Seite annimmt (Herkunft 403).
+4. Datenschutz: `datenschutz.html` muss dann sagen, wo die Anfrage liegt (beim Team der Bar, zwölf Monate, Löschung auf Wunsch). Vom Haus zu prüfen.
 
 ## Geprüft
 
-`pruefung/culinarium.js` öffnet `abend.html` auf dem Prüfserver mit dem Baustein (in die Seite gesetzt, nicht in die Website geschrieben), trägt Name, E-Mail, Tag und Plätze ein, schickt ab und sieht nach, dass der Eintrag im Eingang liegt (auch mit `<script>` und Emoji im Namen, entschärft) und der Abriss sich löst; ohne Verbindung steht die Meldung mit Telefon der Bar, die Eingaben bleiben.
+Auf dem Server :9084 (der die Website ausliefert) mit dem Baustein in die Seite gesetzt, nicht in die Website geschrieben: Reservieren auf `besuch.html` und eine Feier auf `tafel.html` liegen danach im Eingang; ohne Name erscheint die Meldung, nichts wird abgelegt.
